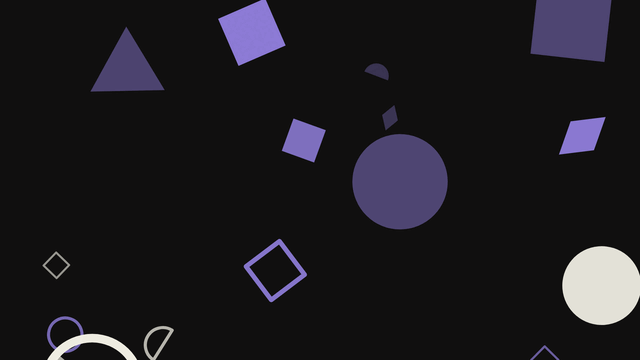
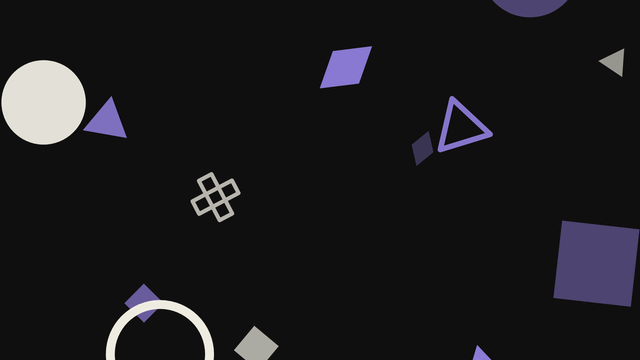
fix(bits): even out Floating Shapes and stop Pinwheel Grid squeezing
Floating Shapes spreads its shapes across stratified slots, drops the
half-disc fragment and keeps marks large enough to read. Pinwheel Grid
fits whole cells to the frame and turns without the mid-turn scale dip.

diff --git a/src/catalog/inventory.generated.ts b/src/catalog/inventory.generated.ts
@@ -502,7 +502,7 @@ export const sharedBitInventory: SharedBitInventoryEntry[] = [
       "random",
       "viewport"
     ],
-    "sourceCode": "<!doctype html>\n<html lang=\"en\" data-composition-variables='[{\"id\":\"background\",\"type\":\"color\",\"label\":\"Background\",\"default\":\"#100f0f\"},{\"id\":\"foreground\",\"type\":\"color\",\"label\":\"Foreground\",\"default\":\"#f2f0e5\"},{\"id\":\"accent\",\"type\":\"color\",\"label\":\"Accent\",\"default\":\"#9d8af0\"},{\"id\":\"shapes\",\"type\":\"number\",\"label\":\"Shapes\",\"default\":16},{\"id\":\"seed\",\"type\":\"number\",\"label\":\"Seed\",\"default\":8}]'>\n  <head>\n    <meta charset=\"UTF-8\" />\n    <meta name=\"viewport\" content=\"width=1920, height=1080\" />\n    <script src=\"https://cdn.jsdelivr.net/npm/gsap@3.14.2/dist/gsap.min.js\"></script>\n    <script src=\"hyperbits.iife.js\" data-hyperbits-src=\"https://unpkg.com/hyperbits/dist/hyperbits.iife.js\" data-hyperbits-local=\"../../../dist/hyperbits.iife.js\"></script>\n    <style>\n      :root {\n        --bg: #100f0f;\n        --fg: #f2f0e5;\n        --accent: #9d8af0;\n      }\n      * {\n        margin: 0;\n        padding: 0;\n        box-sizing: border-box;\n      }\n      html,\n      body {\n        margin: 0;\n        width: 1920px;\n        height: 1080px;\n        overflow: hidden;\n        background-color: #100f0f;\n      }\n      #root {\n        width: 100%;\n        height: 100%;\n        position: relative;\n        overflow: hidden;\n      }\n      #stage {\n        position: absolute;\n        inset: 0;\n        width: 100%;\n        height: 100%;\n        z-index: 1;\n      }\n    </style>\n  </head>\n  <body>\n    <div\n      id=\"root\"\n      class=\"clip\"\n      data-composition-id=\"floating-shapes\"\n      data-start=\"0\"\n      data-duration=\"12\"\n      data-width=\"1920\"\n      data-height=\"1080\"\n    >\n      <div id=\"bg\" class=\"clip\" data-start=\"0\" data-duration=\"12\" style=\"position:absolute;inset:0;background-color:#100f0f\"></div>\n      <canvas id=\"stage\" class=\"clip\" data-start=\"0\" data-duration=\"12\"></canvas>\n    </div>\n    <script>\n      (function () {\n\n        function bitVars() {\n          if (window.__hyperframes && typeof window.__hyperframes.getVariables === \"function\") {\n            return window.__hyperframes.getVariables();\n          }\n          const raw = document.documentElement.getAttribute(\"data-composition-variables\") || \"[]\";\n          const decls = JSON.parse(raw);\n          const values = {};\n          for (const entry of decls) values[entry.id] = entry.default;\n          return values;\n        }\n        function registerTimeline(compositionId, timeline) {\n          window.__timelines = window.__timelines || {};\n          window.__timelines[compositionId] = timeline;\n          timeline.seek(0);\n        }\n\n\n        const vars = bitVars();\n        const root = document.getElementById(\"root\");\n        const bg = document.getElementById(\"bg\");\n        const canvas = document.getElementById(\"stage\");\n        const view = hyperbits.viewport(root);\n        bg.style.backgroundColor = vars.background;\n        canvas.width = view.width;\n        canvas.height = view.height;\n        const context = canvas.getContext(\"2d\");\n        const loop = 12;\n        const turn = Math.PI * 2;\n        function channels(color) {\n          const parts = hyperbits.mixOklch(String(color), String(color), 0, \"rgb(0, 0, 0)\").match(/[0-9.]+/g) || [0, 0, 0];\n          return parts.slice(0, 3).map(Number);\n        }\n        function rgba(rgb, alpha) {\n          return \"rgba(\" + rgb[0] + \", \" + rgb[1] + \", \" + rgb[2] + \", \" + Math.min(Math.max(alpha, 0), 1) + \")\";\n        }\n        function mix(from, to, amount) {\n          return from.map((value, index) => Math.round(value + (to[index] - value) * amount));\n        }\n        const foreground = channels(vars.foreground);\n        const accent = channels(vars.accent);\n        const muted = mix(accent, channels(vars.background), 0.55);\n        const count = Math.max(1, Math.round(Number(vars.shapes) || 16));\n        const seed = Number(vars.seed) || 0;\n        const symmetry = { circle: 0, ring: 0, triangle: 3, square: 4, plus: 4, half: 1, diamond: 2 };\n        const kinds = Object.keys(symmetry);\n        const shapes = [...Array(count).keys()].map((index) => {\n          const key = \"float-\" + seed + \"-\" + index;\n          const layer = index < 3 ? 0.85 + 0.05 * index : hyperbits.random(key + \"-layer\");\n          const tone = hyperbits.random(key + \"-tone\");\n          const kind = index < 3 ? [\"circle\", \"triangle\", \"square\"][index] : hyperbits.pick(key + \"-kind\", kinds);\n          const order = symmetry[kind];\n          return {\n            kind,\n            layer,\n            size: view.vmin * (6 + 22 * layer * layer),\n            homeX: hyperbits.randomFloat(key + \"-x\", 0.08, 0.92) * view.width,\n            homeY: hyperbits.random(key + \"-y\"),\n            swayX: view.vmin * (1.5 + 3 * layer),\n            swayFrequency: hyperbits.pick(key + \"-fx\", [1, 2]),\n            swayShift: hyperbits.random(key + \"-sx\"),\n            rise: layer > 0.55 ? 2 : 1,\n            tilt: hyperbits.randomFloat(key + \"-tilt\", 0, turn),\n            spin: order === 0 ? 0 : (turn / order) * hyperbits.pick(key + \"-spin\", [-1, 1]) * (order === 1 ? 1 : 2),\n            color: tone > 0.72 ? foreground : tone > 0.22 ? accent : muted,\n            outline: index >= 3 && hyperbits.random(key + \"-outline\") > 0.75,\n          };\n        }).sort((left, right) => left.layer - right.layer);\n        function path(kind, size) {\n          const half = size / 2;\n          context.beginPath();\n          if (kind === \"circle\" || kind === \"ring\") {\n            context.arc(0, 0, half, 0, turn);\n          } else if (kind === \"triangle\") {\n            for (let corner = 0; corner < 3; corner += 1) {\n              const angle = (turn * corner) / 3 - Math.PI / 2;\n              if (corner === 0) context.moveTo(Math.cos(angle) * half, Math.sin(angle) * half);\n              else context.lineTo(Math.cos(angle) * half, Math.sin(angle) * half);\n            }\n          } else if (kind === \"square\") {\n            context.rect(-half * 0.8, -half * 0.8, half * 1.6, half * 1.6);\n          } else if (kind === \"plus\") {\n            const arm = half * 0.32;\n            context.rect(-half, -arm, size, arm * 2);\n            context.rect(-arm, -half, arm * 2, size);\n          } else if (kind === \"half\") {\n            context.arc(0, half * 0.25, half, Math.PI, turn);\n          } else {\n            context.moveTo(0, -half);\n            context.lineTo(half * 0.62, 0);\n            context.lineTo(0, half);\n            context.lineTo(-half * 0.62, 0);\n          }\n          context.closePath();\n        }\n        function draw(phase) {\n          if (!context || typeof context.stroke !== \"function\") return;\n          context.clearRect(0, 0, view.width, view.height);\n          context.lineJoin = \"round\";\n          for (const shape of shapes) {\n            const margin = shape.size * 1.2;\n            const span = view.height + margin * 2;\n            const progress = (((shape.homeY - phase * shape.rise) % 1) + 1) % 1;\n            const shapeY = progress * span - margin;\n            const shapeX = shape.homeX + Math.sin(turn * (phase * shape.swayFrequency + shape.swayShift)) * shape.swayX;\n            context.save();\n            context.translate(shapeX, shapeY);\n            context.rotate(shape.tilt + shape.spin * phase);\n            context.globalAlpha = 0.55 + 0.45 * shape.layer;\n            path(shape.kind, shape.size);\n            if (shape.kind === \"ring\" || shape.outline) {\n              context.strokeStyle = rgba(shape.color, 1);\n              context.lineWidth = Math.max(view.vmin * 0.2, shape.size * 0.09);\n              context.stroke();\n            } else {\n              context.fillStyle = rgba(shape.color, 1);\n              context.fill();\n            }\n            context.restore();\n          }\n          context.globalAlpha = 1;\n        }\n        const proxy = { time: 0 };\n        const timeline = gsap.timeline({ paused: true });\n        timeline.to(proxy, { time: loop, duration: loop, ease: \"none\", onUpdate: () => draw((proxy.time % loop) / loop) }, 0);\n        draw(0);\n        registerTimeline(\"floating-shapes\", timeline);\n\n      })();\n    </script>\n  </body>\n</html>\n",
+    "sourceCode": "<!doctype html>\n<html lang=\"en\" data-composition-variables='[{\"id\":\"background\",\"type\":\"color\",\"label\":\"Background\",\"default\":\"#100f0f\"},{\"id\":\"foreground\",\"type\":\"color\",\"label\":\"Foreground\",\"default\":\"#f2f0e5\"},{\"id\":\"accent\",\"type\":\"color\",\"label\":\"Accent\",\"default\":\"#9d8af0\"},{\"id\":\"shapes\",\"type\":\"number\",\"label\":\"Shapes\",\"default\":16},{\"id\":\"seed\",\"type\":\"number\",\"label\":\"Seed\",\"default\":8}]'>\n  <head>\n    <meta charset=\"UTF-8\" />\n    <meta name=\"viewport\" content=\"width=1920, height=1080\" />\n    <script src=\"https://cdn.jsdelivr.net/npm/gsap@3.14.2/dist/gsap.min.js\"></script>\n    <script src=\"hyperbits.iife.js\" data-hyperbits-src=\"https://unpkg.com/hyperbits/dist/hyperbits.iife.js\" data-hyperbits-local=\"../../../dist/hyperbits.iife.js\"></script>\n    <style>\n      :root {\n        --bg: #100f0f;\n        --fg: #f2f0e5;\n        --accent: #9d8af0;\n      }\n      * {\n        margin: 0;\n        padding: 0;\n        box-sizing: border-box;\n      }\n      html,\n      body {\n        margin: 0;\n        width: 1920px;\n        height: 1080px;\n        overflow: hidden;\n        background-color: #100f0f;\n      }\n      #root {\n        width: 100%;\n        height: 100%;\n        position: relative;\n        overflow: hidden;\n      }\n      #stage {\n        position: absolute;\n        inset: 0;\n        width: 100%;\n        height: 100%;\n        z-index: 1;\n      }\n    </style>\n  </head>\n  <body>\n    <div\n      id=\"root\"\n      class=\"clip\"\n      data-composition-id=\"floating-shapes\"\n      data-start=\"0\"\n      data-duration=\"12\"\n      data-width=\"1920\"\n      data-height=\"1080\"\n    >\n      <div id=\"bg\" class=\"clip\" data-start=\"0\" data-duration=\"12\" style=\"position:absolute;inset:0;background-color:#100f0f\"></div>\n      <canvas id=\"stage\" class=\"clip\" data-start=\"0\" data-duration=\"12\"></canvas>\n    </div>\n    <script>\n      (function () {\n\n        function bitVars() {\n          if (window.__hyperframes && typeof window.__hyperframes.getVariables === \"function\") {\n            return window.__hyperframes.getVariables();\n          }\n          const raw = document.documentElement.getAttribute(\"data-composition-variables\") || \"[]\";\n          const decls = JSON.parse(raw);\n          const values = {};\n          for (const entry of decls) values[entry.id] = entry.default;\n          return values;\n        }\n        function registerTimeline(compositionId, timeline) {\n          window.__timelines = window.__timelines || {};\n          window.__timelines[compositionId] = timeline;\n          timeline.seek(0);\n        }\n\n\n        const vars = bitVars();\n        const root = document.getElementById(\"root\");\n        const bg = document.getElementById(\"bg\");\n        const canvas = document.getElementById(\"stage\");\n        const view = hyperbits.viewport(root);\n        bg.style.backgroundColor = vars.background;\n        canvas.width = view.width;\n        canvas.height = view.height;\n        const context = canvas.getContext(\"2d\");\n        const loop = 12;\n        const turn = Math.PI * 2;\n        function channels(color) {\n          const parts = hyperbits.mixOklch(String(color), String(color), 0, \"rgb(0, 0, 0)\").match(/[0-9.]+/g) || [0, 0, 0];\n          return parts.slice(0, 3).map(Number);\n        }\n        function rgba(rgb, alpha) {\n          return \"rgba(\" + rgb[0] + \", \" + rgb[1] + \", \" + rgb[2] + \", \" + Math.min(Math.max(alpha, 0), 1) + \")\";\n        }\n        function mix(from, to, amount) {\n          return from.map((value, index) => Math.round(value + (to[index] - value) * amount));\n        }\n        const foreground = channels(vars.foreground);\n        const accent = channels(vars.accent);\n        const muted = mix(accent, channels(vars.background), 0.55);\n        const count = Math.max(1, Math.round(Number(vars.shapes) || 16));\n        const seed = Number(vars.seed) || 0;\n        const symmetry = { circle: 0, ring: 0, triangle: 3, square: 4, plus: 4, diamond: 2 };\n        const kinds = Object.keys(symmetry);\n        const shapes = [...Array(count).keys()].map((index) => {\n          const key = \"float-\" + seed + \"-\" + index;\n          const layer = index < 3 ? 0.85 + 0.05 * index : hyperbits.random(key + \"-layer\");\n          const tone = hyperbits.random(key + \"-tone\");\n          const kind = index < 3 ? [\"circle\", \"triangle\", \"square\"][index] : hyperbits.pick(key + \"-kind\", kinds);\n          const order = symmetry[kind];\n          return {\n            kind,\n            layer,\n            size: view.vmin * (9 + 20 * layer * layer),\n            homeX: (((index * 7) % count) + hyperbits.randomFloat(key + \"-x\", 0.25, 0.75)) / count * view.width,\n            homeY: (index * 0.618034 + hyperbits.randomFloat(key + \"-y\", 0, 0.08)) % 1,\n            swayX: view.vmin * (1.5 + 3 * layer),\n            swayFrequency: hyperbits.pick(key + \"-fx\", [1, 2]),\n            swayShift: hyperbits.random(key + \"-sx\"),\n            rise: layer > 0.55 ? 2 : 1,\n            tilt: hyperbits.randomFloat(key + \"-tilt\", 0, turn),\n            spin: order === 0 ? 0 : (turn / order) * hyperbits.pick(key + \"-spin\", [-1, 1]) * 2,\n            color: tone > 0.72 ? foreground : tone > 0.22 ? accent : muted,\n            outline: index >= 3 && layer > 0.4 && hyperbits.random(key + \"-outline\") > 0.6,\n          };\n        }).sort((left, right) => left.layer - right.layer);\n        function path(kind, size) {\n          const half = size / 2;\n          context.beginPath();\n          if (kind === \"circle\" || kind === \"ring\") {\n            context.arc(0, 0, half, 0, turn);\n          } else if (kind === \"triangle\") {\n            for (let corner = 0; corner < 3; corner += 1) {\n              const angle = (turn * corner) / 3 - Math.PI / 2;\n              if (corner === 0) context.moveTo(Math.cos(angle) * half, Math.sin(angle) * half);\n              else context.lineTo(Math.cos(angle) * half, Math.sin(angle) * half);\n            }\n          } else if (kind === \"square\") {\n            context.rect(-half * 0.8, -half * 0.8, half * 1.6, half * 1.6);\n          } else if (kind === \"plus\") {\n            const arm = half * 0.32;\n            context.rect(-half, -arm, size, arm * 2);\n            context.rect(-arm, -half, arm * 2, size);\n          } else {\n            context.moveTo(0, -half);\n            context.lineTo(half * 0.62, 0);\n            context.lineTo(0, half);\n            context.lineTo(-half * 0.62, 0);\n          }\n          context.closePath();\n        }\n        function draw(phase) {\n          if (!context || typeof context.stroke !== \"function\") return;\n          context.clearRect(0, 0, view.width, view.height);\n          context.lineJoin = \"round\";\n          for (const shape of shapes) {\n            const margin = shape.size * 1.2;\n            const span = view.height + margin * 2;\n            const progress = (((shape.homeY - phase * shape.rise) % 1) + 1) % 1;\n            const shapeY = progress * span - margin;\n            const shapeX = shape.homeX + Math.sin(turn * (phase * shape.swayFrequency + shape.swayShift)) * shape.swayX;\n            context.save();\n            context.translate(shapeX, shapeY);\n            context.rotate(shape.tilt + shape.spin * phase);\n            context.globalAlpha = 0.55 + 0.45 * shape.layer;\n            path(shape.kind, shape.size);\n            if (shape.kind === \"ring\" || shape.outline) {\n              context.strokeStyle = rgba(shape.color, 1);\n              context.lineWidth = Math.max(view.vmin * 0.2, shape.size * 0.09);\n              context.stroke();\n            } else {\n              context.fillStyle = rgba(shape.color, 1);\n              context.fill();\n            }\n            context.restore();\n          }\n          context.globalAlpha = 1;\n        }\n        const proxy = { time: 0 };\n        const timeline = gsap.timeline({ paused: true });\n        timeline.to(proxy, { time: loop, duration: loop, ease: \"none\", onUpdate: () => draw((proxy.time % loop) / loop) }, 0);\n        draw(0);\n        registerTimeline(\"floating-shapes\", timeline);\n\n      })();\n    </script>\n  </body>\n</html>\n",
     "registry": {
       "$schema": "https://hyperframes.heygen.com/schema/registry-item.json",
       "name": "floating-shapes",
@@ -793,7 +793,7 @@ export const sharedBitInventory: SharedBitInventoryEntry[] = [
       "interpolate",
       "viewport"
     ],
-    "sourceCode": "<!doctype html>\n<html lang=\"en\" data-composition-variables='[{\"id\":\"background\",\"type\":\"color\",\"label\":\"Background\",\"default\":\"#100f0f\"},{\"id\":\"foreground\",\"type\":\"color\",\"label\":\"Foreground\",\"default\":\"#f2f0e5\"},{\"id\":\"accent\",\"type\":\"color\",\"label\":\"Accent\",\"default\":\"#9d8af0\"},{\"id\":\"columns\",\"type\":\"number\",\"label\":\"Columns\",\"default\":7}]'>\n  <head>\n    <meta charset=\"UTF-8\" />\n    <meta name=\"viewport\" content=\"width=1920, height=1080\" />\n    <script src=\"https://cdn.jsdelivr.net/npm/gsap@3.14.2/dist/gsap.min.js\"></script>\n    <script src=\"hyperbits.iife.js\" data-hyperbits-src=\"https://unpkg.com/hyperbits/dist/hyperbits.iife.js\" data-hyperbits-local=\"../../../dist/hyperbits.iife.js\"></script>\n    <style>\n      :root {\n        --bg: #100f0f;\n        --fg: #f2f0e5;\n        --accent: #9d8af0;\n      }\n      * {\n        margin: 0;\n        padding: 0;\n        box-sizing: border-box;\n      }\n      html,\n      body {\n        margin: 0;\n        width: 1920px;\n        height: 1080px;\n        overflow: hidden;\n        background-color: #100f0f;\n      }\n      #root {\n        width: 100%;\n        height: 100%;\n        position: relative;\n        overflow: hidden;\n      }\n      #stage {\n        position: absolute;\n        inset: 0;\n        width: 100%;\n        height: 100%;\n        z-index: 1;\n      }\n    </style>\n  </head>\n  <body>\n    <div\n      id=\"root\"\n      class=\"clip\"\n      data-composition-id=\"pinwheel-grid\"\n      data-start=\"0\"\n      data-duration=\"12\"\n      data-width=\"1920\"\n      data-height=\"1080\"\n    >\n      <div id=\"bg\" class=\"clip\" data-start=\"0\" data-duration=\"12\" style=\"position:absolute;inset:0;background-color:#100f0f\"></div>\n      <canvas id=\"stage\" class=\"clip\" data-start=\"0\" data-duration=\"12\"></canvas>\n    </div>\n    <script>\n      (function () {\n\n        function bitVars() {\n          if (window.__hyperframes && typeof window.__hyperframes.getVariables === \"function\") {\n            return window.__hyperframes.getVariables();\n          }\n          const raw = document.documentElement.getAttribute(\"data-composition-variables\") || \"[]\";\n          const decls = JSON.parse(raw);\n          const values = {};\n          for (const entry of decls) values[entry.id] = entry.default;\n          return values;\n        }\n        function registerTimeline(compositionId, timeline) {\n          window.__timelines = window.__timelines || {};\n          window.__timelines[compositionId] = timeline;\n          timeline.seek(0);\n        }\n\n\n        const vars = bitVars();\n        const root = document.getElementById(\"root\");\n        const bg = document.getElementById(\"bg\");\n        const canvas = document.getElementById(\"stage\");\n        const view = hyperbits.viewport(root);\n        bg.style.backgroundColor = vars.background;\n        canvas.width = view.width;\n        canvas.height = view.height;\n        const context = canvas.getContext(\"2d\");\n        const loop = 12;\n        const turn = Math.PI * 2;\n        function channels(color) {\n          const parts = hyperbits.mixOklch(String(color), String(color), 0, \"rgb(0, 0, 0)\").match(/[0-9.]+/g) || [0, 0, 0];\n          return parts.slice(0, 3).map(Number);\n        }\n        function rgba(rgb, alpha) {\n          return \"rgba(\" + rgb[0] + \", \" + rgb[1] + \", \" + rgb[2] + \", \" + Math.min(Math.max(alpha, 0), 1) + \")\";\n        }\n        function mix(from, to, amount) {\n          return from.map((value, index) => Math.round(value + (to[index] - value) * amount));\n        }\n        const foreground = channels(vars.foreground);\n        const accent = channels(vars.accent);\n        const shade = mix(accent, channels(vars.background), 0.3);\n        const columns = Math.max(2, Math.round(Number(vars.columns) || 7));\n        const size = view.width / columns;\n        const rows = Math.ceil(view.height / size);\n        const marginY = (view.height - rows * size) / 2;\n        const ease = hyperbits.Easing.easeInOutCubic;\n        function blade(half) {\n          context.beginPath();\n          context.moveTo(0, 0);\n          context.lineTo(0, -half);\n          context.lineTo(half, -half);\n          context.closePath();\n          context.fill();\n        }\n        function draw(phase) {\n          if (!context || typeof context.stroke !== \"function\") return;\n          context.clearRect(0, 0, view.width, view.height);\n          const half = size * 0.44;\n          for (let row = 0; row < rows; row += 1) {\n            for (let column = 0; column < columns; column += 1) {\n              const direction = (row + column) % 2 === 0 ? 1 : -1;\n              const delay = (column / columns) * 0.35 + (row / rows) * 0.2;\n              const beat = phase * 2 - delay;\n              const whole = Math.floor(beat);\n              const local = Math.min(Math.max((beat - whole) / 0.45, 0), 1);\n              const eased = ease(local);\n              const angle = direction * (Math.PI / 2) * (whole + eased);\n              const squeeze = 1 - 0.18 * Math.sin(Math.PI * local);\n              context.save();\n              context.translate(column * size + size / 2, marginY + row * size + size / 2);\n              context.rotate(angle);\n              context.scale(squeeze, squeeze);\n              for (let quarter = 0; quarter < 4; quarter += 1) {\n                context.fillStyle = rgba(quarter % 2 === 0 ? accent : shade, 1);\n                blade(half);\n                context.rotate(Math.PI / 2);\n              }\n              context.fillStyle = rgba(foreground, 1);\n              context.beginPath();\n              context.arc(0, 0, size * 0.035, 0, turn);\n              context.fill();\n              context.restore();\n            }\n          }\n        }\n        const proxy = { time: 0 };\n        const timeline = gsap.timeline({ paused: true });\n        timeline.to(proxy, { time: loop, duration: loop, ease: \"none\", onUpdate: () => draw((proxy.time % loop) / loop) }, 0);\n        draw(0);\n        registerTimeline(\"pinwheel-grid\", timeline);\n\n      })();\n    </script>\n  </body>\n</html>\n",
+    "sourceCode": "<!doctype html>\n<html lang=\"en\" data-composition-variables='[{\"id\":\"background\",\"type\":\"color\",\"label\":\"Background\",\"default\":\"#100f0f\"},{\"id\":\"foreground\",\"type\":\"color\",\"label\":\"Foreground\",\"default\":\"#f2f0e5\"},{\"id\":\"accent\",\"type\":\"color\",\"label\":\"Accent\",\"default\":\"#9d8af0\"},{\"id\":\"columns\",\"type\":\"number\",\"label\":\"Columns\",\"default\":7}]'>\n  <head>\n    <meta charset=\"UTF-8\" />\n    <meta name=\"viewport\" content=\"width=1920, height=1080\" />\n    <script src=\"https://cdn.jsdelivr.net/npm/gsap@3.14.2/dist/gsap.min.js\"></script>\n    <script src=\"hyperbits.iife.js\" data-hyperbits-src=\"https://unpkg.com/hyperbits/dist/hyperbits.iife.js\" data-hyperbits-local=\"../../../dist/hyperbits.iife.js\"></script>\n    <style>\n      :root {\n        --bg: #100f0f;\n        --fg: #f2f0e5;\n        --accent: #9d8af0;\n      }\n      * {\n        margin: 0;\n        padding: 0;\n        box-sizing: border-box;\n      }\n      html,\n      body {\n        margin: 0;\n        width: 1920px;\n        height: 1080px;\n        overflow: hidden;\n        background-color: #100f0f;\n      }\n      #root {\n        width: 100%;\n        height: 100%;\n        position: relative;\n        overflow: hidden;\n      }\n      #stage {\n        position: absolute;\n        inset: 0;\n        width: 100%;\n        height: 100%;\n        z-index: 1;\n      }\n    </style>\n  </head>\n  <body>\n    <div\n      id=\"root\"\n      class=\"clip\"\n      data-composition-id=\"pinwheel-grid\"\n      data-start=\"0\"\n      data-duration=\"12\"\n      data-width=\"1920\"\n      data-height=\"1080\"\n    >\n      <div id=\"bg\" class=\"clip\" data-start=\"0\" data-duration=\"12\" style=\"position:absolute;inset:0;background-color:#100f0f\"></div>\n      <canvas id=\"stage\" class=\"clip\" data-start=\"0\" data-duration=\"12\"></canvas>\n    </div>\n    <script>\n      (function () {\n\n        function bitVars() {\n          if (window.__hyperframes && typeof window.__hyperframes.getVariables === \"function\") {\n            return window.__hyperframes.getVariables();\n          }\n          const raw = document.documentElement.getAttribute(\"data-composition-variables\") || \"[]\";\n          const decls = JSON.parse(raw);\n          const values = {};\n          for (const entry of decls) values[entry.id] = entry.default;\n          return values;\n        }\n        function registerTimeline(compositionId, timeline) {\n          window.__timelines = window.__timelines || {};\n          window.__timelines[compositionId] = timeline;\n          timeline.seek(0);\n        }\n\n\n        const vars = bitVars();\n        const root = document.getElementById(\"root\");\n        const bg = document.getElementById(\"bg\");\n        const canvas = document.getElementById(\"stage\");\n        const view = hyperbits.viewport(root);\n        bg.style.backgroundColor = vars.background;\n        canvas.width = view.width;\n        canvas.height = view.height;\n        const context = canvas.getContext(\"2d\");\n        const loop = 12;\n        const turn = Math.PI * 2;\n        function channels(color) {\n          const parts = hyperbits.mixOklch(String(color), String(color), 0, \"rgb(0, 0, 0)\").match(/[0-9.]+/g) || [0, 0, 0];\n          return parts.slice(0, 3).map(Number);\n        }\n        function rgba(rgb, alpha) {\n          return \"rgba(\" + rgb[0] + \", \" + rgb[1] + \", \" + rgb[2] + \", \" + Math.min(Math.max(alpha, 0), 1) + \")\";\n        }\n        function mix(from, to, amount) {\n          return from.map((value, index) => Math.round(value + (to[index] - value) * amount));\n        }\n        const foreground = channels(vars.foreground);\n        const accent = channels(vars.accent);\n        const shade = mix(accent, channels(vars.background), 0.3);\n        const columns = Math.max(2, Math.round(Number(vars.columns) || 7));\n        const rows = Math.max(1, Math.round(view.height / (view.width / columns)));\n        const size = Math.min(view.width / columns, view.height / rows);\n        const marginX = (view.width - columns * size) / 2;\n        const marginY = (view.height - rows * size) / 2;\n        const ease = hyperbits.Easing.easeInOutCubic;\n        function blade(half) {\n          context.beginPath();\n          context.moveTo(0, 0);\n          context.lineTo(0, -half);\n          context.lineTo(half, -half);\n          context.closePath();\n          context.fill();\n        }\n        function draw(phase) {\n          if (!context || typeof context.stroke !== \"function\") return;\n          context.clearRect(0, 0, view.width, view.height);\n          const half = size * 0.38;\n          for (let row = 0; row < rows; row += 1) {\n            for (let column = 0; column < columns; column += 1) {\n              const direction = (row + column) % 2 === 0 ? 1 : -1;\n              const delay = (column / columns) * 0.35 + (row / rows) * 0.2;\n              const beat = phase * 2 - delay;\n              const whole = Math.floor(beat);\n              const local = Math.min(Math.max((beat - whole) / 0.45, 0), 1);\n              const angle = direction * (Math.PI / 2) * (whole + ease(local));\n              context.save();\n              context.translate(marginX + column * size + size / 2, marginY + row * size + size / 2);\n              context.rotate(angle);\n              for (let quarter = 0; quarter < 4; quarter += 1) {\n                context.fillStyle = rgba(quarter % 2 === 0 ? accent : shade, 1);\n                blade(half);\n                context.rotate(Math.PI / 2);\n              }\n              context.fillStyle = rgba(foreground, 1);\n              context.beginPath();\n              context.arc(0, 0, size * 0.035, 0, turn);\n              context.fill();\n              context.restore();\n            }\n          }\n        }\n        const proxy = { time: 0 };\n        const timeline = gsap.timeline({ paused: true });\n        timeline.to(proxy, { time: loop, duration: loop, ease: \"none\", onUpdate: () => draw((proxy.time % loop) / loop) }, 0);\n        draw(0);\n        registerTimeline(\"pinwheel-grid\", timeline);\n\n      })();\n    </script>\n  </body>\n</html>\n",
     "registry": {
       "$schema": "https://hyperframes.heygen.com/schema/registry-item.json",
       "name": "pinwheel-grid",

diff --git a/bits/motion-loops/floating-shapes/index.html b/bits/motion-loops/floating-shapes/index.html
@@ -98,7 +98,7 @@
         const muted = mix(accent, channels(vars.background), 0.55);
         const count = Math.max(1, Math.round(Number(vars.shapes) || 16));
         const seed = Number(vars.seed) || 0;
-        const symmetry = { circle: 0, ring: 0, triangle: 3, square: 4, plus: 4, half: 1, diamond: 2 };
+        const symmetry = { circle: 0, ring: 0, triangle: 3, square: 4, plus: 4, diamond: 2 };
         const kinds = Object.keys(symmetry);
         const shapes = [...Array(count).keys()].map((index) => {
           const key = "float-" + seed + "-" + index;
@@ -109,17 +109,17 @@
           return {
             kind,
             layer,
-            size: view.vmin * (6 + 22 * layer * layer),
-            homeX: hyperbits.randomFloat(key + "-x", 0.08, 0.92) * view.width,
-            homeY: hyperbits.random(key + "-y"),
+            size: view.vmin * (9 + 20 * layer * layer),
+            homeX: (((index * 7) % count) + hyperbits.randomFloat(key + "-x", 0.25, 0.75)) / count * view.width,
+            homeY: (index * 0.618034 + hyperbits.randomFloat(key + "-y", 0, 0.08)) % 1,
             swayX: view.vmin * (1.5 + 3 * layer),
             swayFrequency: hyperbits.pick(key + "-fx", [1, 2]),
             swayShift: hyperbits.random(key + "-sx"),
             rise: layer > 0.55 ? 2 : 1,
             tilt: hyperbits.randomFloat(key + "-tilt", 0, turn),
-            spin: order === 0 ? 0 : (turn / order) * hyperbits.pick(key + "-spin", [-1, 1]) * (order === 1 ? 1 : 2),
+            spin: order === 0 ? 0 : (turn / order) * hyperbits.pick(key + "-spin", [-1, 1]) * 2,
             color: tone > 0.72 ? foreground : tone > 0.22 ? accent : muted,
-            outline: index >= 3 && hyperbits.random(key + "-outline") > 0.75,
+            outline: index >= 3 && layer > 0.4 && hyperbits.random(key + "-outline") > 0.6,
           };
         }).sort((left, right) => left.layer - right.layer);
         function path(kind, size) {
@@ -139,8 +139,6 @@
             const arm = half * 0.32;
             context.rect(-half, -arm, size, arm * 2);
             context.rect(-arm, -half, arm * 2, size);
-          } else if (kind === "half") {
-            context.arc(0, half * 0.25, half, Math.PI, turn);
           } else {
             context.moveTo(0, -half);
             context.lineTo(half * 0.62, 0);

diff --git a/docs/public/blocks/floating-shapes/index.html b/docs/public/blocks/floating-shapes/index.html
@@ -98,7 +98,7 @@
         const muted = mix(accent, channels(vars.background), 0.55);
         const count = Math.max(1, Math.round(Number(vars.shapes) || 16));
         const seed = Number(vars.seed) || 0;
-        const symmetry = { circle: 0, ring: 0, triangle: 3, square: 4, plus: 4, half: 1, diamond: 2 };
+        const symmetry = { circle: 0, ring: 0, triangle: 3, square: 4, plus: 4, diamond: 2 };
         const kinds = Object.keys(symmetry);
         const shapes = [...Array(count).keys()].map((index) => {
           const key = "float-" + seed + "-" + index;
@@ -109,17 +109,17 @@
           return {
             kind,
             layer,
-            size: view.vmin * (6 + 22 * layer * layer),
-            homeX: hyperbits.randomFloat(key + "-x", 0.08, 0.92) * view.width,
-            homeY: hyperbits.random(key + "-y"),
+            size: view.vmin * (9 + 20 * layer * layer),
+            homeX: (((index * 7) % count) + hyperbits.randomFloat(key + "-x", 0.25, 0.75)) / count * view.width,
+            homeY: (index * 0.618034 + hyperbits.randomFloat(key + "-y", 0, 0.08)) % 1,
             swayX: view.vmin * (1.5 + 3 * layer),
             swayFrequency: hyperbits.pick(key + "-fx", [1, 2]),
             swayShift: hyperbits.random(key + "-sx"),
             rise: layer > 0.55 ? 2 : 1,
             tilt: hyperbits.randomFloat(key + "-tilt", 0, turn),
-            spin: order === 0 ? 0 : (turn / order) * hyperbits.pick(key + "-spin", [-1, 1]) * (order === 1 ? 1 : 2),
+            spin: order === 0 ? 0 : (turn / order) * hyperbits.pick(key + "-spin", [-1, 1]) * 2,
             color: tone > 0.72 ? foreground : tone > 0.22 ? accent : muted,
-            outline: index >= 3 && hyperbits.random(key + "-outline") > 0.75,
+            outline: index >= 3 && layer > 0.4 && hyperbits.random(key + "-outline") > 0.6,
           };
         }).sort((left, right) => left.layer - right.layer);
         function path(kind, size) {
@@ -139,8 +139,6 @@
             const arm = half * 0.32;
             context.rect(-half, -arm, size, arm * 2);
             context.rect(-arm, -half, arm * 2, size);
-          } else if (kind === "half") {
-            context.arc(0, half * 0.25, half, Math.PI, turn);
           } else {
             context.moveTo(0, -half);
             context.lineTo(half * 0.62, 0);

diff --git a/bits/motion-loops/pinwheel-grid/index.html b/bits/motion-loops/pinwheel-grid/index.html
@@ -97,8 +97,9 @@
         const accent = channels(vars.accent);
         const shade = mix(accent, channels(vars.background), 0.3);
         const columns = Math.max(2, Math.round(Number(vars.columns) || 7));
-        const size = view.width / columns;
-        const rows = Math.ceil(view.height / size);
+        const rows = Math.max(1, Math.round(view.height / (view.width / columns)));
+        const size = Math.min(view.width / columns, view.height / rows);
+        const marginX = (view.width - columns * size) / 2;
         const marginY = (view.height - rows * size) / 2;
         const ease = hyperbits.Easing.easeInOutCubic;
         function blade(half) {
@@ -112,7 +113,7 @@
         function draw(phase) {
           if (!context || typeof context.stroke !== "function") return;
           context.clearRect(0, 0, view.width, view.height);
-          const half = size * 0.44;
+          const half = size * 0.38;
           for (let row = 0; row < rows; row += 1) {
             for (let column = 0; column < columns; column += 1) {
               const direction = (row + column) % 2 === 0 ? 1 : -1;
@@ -120,13 +121,10 @@
               const beat = phase * 2 - delay;
               const whole = Math.floor(beat);
               const local = Math.min(Math.max((beat - whole) / 0.45, 0), 1);
-              const eased = ease(local);
-              const angle = direction * (Math.PI / 2) * (whole + eased);
-              const squeeze = 1 - 0.18 * Math.sin(Math.PI * local);
+              const angle = direction * (Math.PI / 2) * (whole + ease(local));
               context.save();
-              context.translate(column * size + size / 2, marginY + row * size + size / 2);
+              context.translate(marginX + column * size + size / 2, marginY + row * size + size / 2);
               context.rotate(angle);
-              context.scale(squeeze, squeeze);
               for (let quarter = 0; quarter < 4; quarter += 1) {
                 context.fillStyle = rgba(quarter % 2 === 0 ? accent : shade, 1);
                 blade(half);

diff --git a/docs/public/blocks/pinwheel-grid/index.html b/docs/public/blocks/pinwheel-grid/index.html
@@ -97,8 +97,9 @@
         const accent = channels(vars.accent);
         const shade = mix(accent, channels(vars.background), 0.3);
         const columns = Math.max(2, Math.round(Number(vars.columns) || 7));
-        const size = view.width / columns;
-        const rows = Math.ceil(view.height / size);
+        const rows = Math.max(1, Math.round(view.height / (view.width / columns)));
+        const size = Math.min(view.width / columns, view.height / rows);
+        const marginX = (view.width - columns * size) / 2;
         const marginY = (view.height - rows * size) / 2;
         const ease = hyperbits.Easing.easeInOutCubic;
         function blade(half) {
@@ -112,7 +113,7 @@
         function draw(phase) {
           if (!context || typeof context.stroke !== "function") return;
           context.clearRect(0, 0, view.width, view.height);
-          const half = size * 0.44;
+          const half = size * 0.38;
           for (let row = 0; row < rows; row += 1) {
             for (let column = 0; column < columns; column += 1) {
               const direction = (row + column) % 2 === 0 ? 1 : -1;
@@ -120,13 +121,10 @@
               const beat = phase * 2 - delay;
               const whole = Math.floor(beat);
               const local = Math.min(Math.max((beat - whole) / 0.45, 0), 1);
-              const eased = ease(local);
-              const angle = direction * (Math.PI / 2) * (whole + eased);
-              const squeeze = 1 - 0.18 * Math.sin(Math.PI * local);
+              const angle = direction * (Math.PI / 2) * (whole + ease(local));
               context.save();
-              context.translate(column * size + size / 2, marginY + row * size + size / 2);
+              context.translate(marginX + column * size + size / 2, marginY + row * size + size / 2);
               context.rotate(angle);
-              context.scale(squeeze, squeeze);
               for (let quarter = 0; quarter < 4; quarter += 1) {
                 context.fillStyle = rgba(quarter % 2 === 0 ? accent : shade, 1);
                 blade(half);
